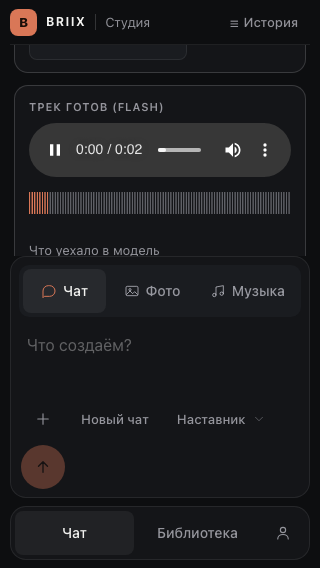
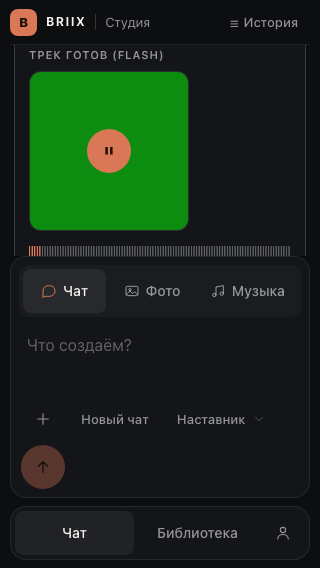
fix(restore): карточка трека после перезагрузки — единый рендер с fresh
- renderTrackCard: один путь построения для createMusic и feedRestore
- обложка = PLAY насовсем: клик до загрузки запускает fileBlob и сразу play,
  состояние loading на обложке; после загрузки — play/pause-тоггл
- волна-заглушка .waveform-ph (шимер) строится сразу, заменяется auto-attach
  волной после загрузки; ошибка загрузки — текст в заглушке, повтор кликом
- «▶ Слушать» в music-карточках ленты удалено (в Библиотеке осталось — не в скоупе)
- сюиты: клики переведены на обложку; новые ассерты: заглушка и PLAY до загрузки,
  audioRequests=0 до клика, playing после клика, seek после загрузки, media-load=0
- check-studio 49 PASS; скриншоты 390/320 обновлены (+ placeholder-состояние)
- отчёт: раздел «fix restore» в audits/task-studio-agent-b.md

Changed region(s): [[0.0625, 0.0898, 0.9062, 0.4489], [0.9375, 0.1197, 0.9688, 0.1496], [0.0312, 0.1197, 0.0625, 0.1496]]

diff --git a/studio/studio.js b/studio/studio.js
@@ -318,47 +318,31 @@
       } else if (d.t === 'music_draft') {
         renderMusicDraftCard(d, session);
       } else if (d.t === 'media') {
-        const body = card('assistant', d.who, '', session);
-        body.textContent = '';
-        const slot = document.createElement('div');
-        body.append(slot);
-        if (d.track) addMakeTrackAction(body.closest('.card'), d.track);
         if (d.kind === 'music') {
-          if (d.input) addMusicDetails(body, d.input);
-          addTrackMenu(body.closest('.card'), { job: d.job, input: d.input || {}, file: d.file, blob: null });
-        }
-        const owner = sessionProfile.nick;
-        const load = async () => {
-          slot.textContent = 'Загружаем файл…';
-          try {
-            const blob = await fileBlob(d.file, d.kind === 'music' ? 0 : 1);
-            if (!slot.isConnected || currentUser() !== owner) return;
-            slot.textContent = '';
-            if (d.kind === 'photo') {
-              const img = new Image(); img.alt = 'Результат'; img.src = feedObjectURL(blob); slot.append(img);
-            } else {
-              const audio = document.createElement('audio'); audio.controls = true; audio.controlsList = 'nodownload';
-              audio.preload = 'metadata'; audio.src = feedObjectURL(blob); slot.append(audio);
-              BriixWaveform.attach(audio, blob, slot);
-              tryPlay(audio, slot);
-              if (d.kind === 'music') {
-                makeCoverPlayable(body.closest('.card'), audio); // обложка = PLAY
-              } else {
-                addDownloadAction(body.closest('.card'), blob, 'briix-photo', '⬇ Скачать');
-              }
-            }
-          } catch (error) {
-            if (!slot.isConnected || currentUser() !== owner) return;
-            slot.textContent = 'Файл недоступен. ' + (error.message || '') + ' ';
-            const retry = document.createElement('button'); retry.type = 'button'; retry.className = 'action';
-            retry.textContent = 'Повторить'; retry.addEventListener('click', load); slot.append(retry);
-          }
-        };
-        if (d.kind === 'music') {
-          addTrackCover(body, d.job, d.cover);
-          const loadButton = document.createElement('button'); loadButton.type = 'button'; loadButton.className = 'action media-load';
-          loadButton.textContent = '▶ Слушать'; loadButton.addEventListener('click', load); slot.append(loadButton);
+          renderTrackCard(session, { who: d.who, job: d.job, cover: d.cover, input: d.input || {}, file: d.file,
+            loadBlob: () => fileBlob(d.file, 0) });
         } else {
+          const body = card('assistant', d.who, '', session);
+          body.textContent = '';
+          const slot = document.createElement('div');
+          body.append(slot);
+          if (d.track) addMakeTrackAction(body.closest('.card'), d.track);
+          const owner = sessionProfile.nick;
+          const load = async () => {
+            slot.textContent = 'Загружаем файл…';
+            try {
+              const blob = await fileBlob(d.file, 1);
+              if (!slot.isConnected || currentUser() !== owner) return;
+              slot.textContent = '';
+              const img = new Image(); img.alt = 'Результат'; img.src = feedObjectURL(blob); slot.append(img);
+              addDownloadAction(body.closest('.card'), blob, 'briix-photo', '⬇ Скачать');
+            } catch (error) {
+              if (!slot.isConnected || currentUser() !== owner) return;
+              slot.textContent = 'Файл недоступен. ' + (error.message || '') + ' ';
+              const retry = document.createElement('button'); retry.type = 'button'; retry.className = 'action';
+              retry.textContent = 'Повторить'; retry.addEventListener('click', load); slot.append(retry);
+            }
+          };
           slot.textContent = 'Изображение готово';
           const observer = new IntersectionObserver((records, obs) => {
             if (!slot.isConnected) { obs.disconnect(); return; }
@@ -577,20 +561,85 @@
   }
 
   // ---- карточка трека: обложка = PLAY, единое меню «⋯», transparency ----------
-  // Обложка запускает/останавливает воспроизведение; состояние playing видно на ней.
-  function makeCoverPlayable(cardEl, audio) {
-    const frame = cardEl?.querySelector('.track-cover');
+  // Обложка — единый рендер-путь для fresh и restore: если аудио ещё не загружено
+  // (restore после перезагрузки страницы), клик по обложке запускает загрузку и
+  // сразу play по готовности; иначе это обычный play/pause-тоггл.
+  function makeCoverPlayable(frame, state, ensureLoaded) {
     if (!frame || frame.dataset.playBound) return;
     frame.dataset.playBound = '1';
     frame.classList.add('playable');
     frame.setAttribute('role', 'button');
     frame.setAttribute('aria-label', 'Слушать трек');
     frame.tabIndex = 0;
-    const toggle = () => { if (audio.paused) audio.play().catch(() => {}); else audio.pause(); };
+    let started = false;
+    const toggle = () => {
+      if (!state.audio) {
+        if (started) return;
+        started = true;
+        frame.classList.add('loading');
+        ensureLoaded().then(audio => audio.play().catch(() => {}))
+          .catch(() => {})
+          .finally(() => { started = false; frame.classList.remove('loading'); });
+        return;
+      }
+      if (state.audio.paused) state.audio.play().catch(() => {}); else state.audio.pause();
+    };
     frame.addEventListener('click', toggle);
     frame.addEventListener('keydown', e => { if (e.key === 'Enter' || e.key === ' ') { e.preventDefault(); toggle(); } });
-    audio.addEventListener('play', () => { frame.classList.add('playing'); frame.setAttribute('aria-label', 'Пауза'); });
-    audio.addEventListener('pause', () => { frame.classList.remove('playing'); frame.setAttribute('aria-label', 'Слушать трек'); });
+  }
+
+  // Единый рендер трек-карточки (fresh и restore): обложка, заглушка волны
+  // (до загрузки файла), аудио-фолбэк, transparency, меню «⋯».
+  function renderTrackCard(session, { who, job, cover, input = {}, file, loadBlob }) {
+    const wrap = card('assistant', who, '', session);
+    wrap.textContent = '';
+    addTrackCover(wrap, job, cover);
+    const waveSlot = document.createElement('div');
+    waveSlot.className = 'waveform-track';
+    const placeholder = document.createElement('div');
+    placeholder.className = 'waveform-ph';
+    placeholder.setAttribute('aria-hidden', 'true');
+    waveSlot.append(placeholder);
+    wrap.append(waveSlot);
+    const audioSlot = document.createElement('div');
+    audioSlot.hidden = true;
+    wrap.append(audioSlot);
+    addMusicDetails(wrap, input);
+    const cardEl = wrap.closest('.card');
+    let cardBlob = null;
+    const ctx = { job, input, file, get blob() { return cardBlob; } };
+    addTrackMenu(cardEl, ctx);
+    const frame = cardEl.querySelector('.track-cover');
+    const state = { audio: null };
+    let pending = null;
+    const ensureLoaded = () => pending ||= (async () => {
+      try {
+        const blob = await loadBlob();
+        if (!frame.isConnected || currentUser() !== sessionProfile?.nick) throw new BusError('cancelled', 'Карточка недоступна.');
+        cardBlob = blob;
+        const audio = document.createElement('audio');
+        audio.controls = true;
+        audio.controlsList = 'nodownload'; // скачивание только через меню «⋯»: имя «Название - Исполнитель»
+        audio.preload = 'metadata';
+        audio.src = feedObjectURL(blob);
+        audioSlot.hidden = false;
+        audioSlot.append(audio);
+        placeholder.remove();
+        BriixWaveform.attach(audio, blob, waveSlot);
+        state.audio = audio;
+        audio.addEventListener('play', () => { frame.classList.add('playing'); frame.setAttribute('aria-label', 'Пауза'); });
+        audio.addEventListener('pause', () => { frame.classList.remove('playing'); frame.setAttribute('aria-label', 'Слушать трек'); });
+        return audio;
+      } catch (error) {
+        pending = null; // обложка остаётся кнопкой повтора
+        if (frame.isConnected && currentUser() === sessionProfile?.nick) {
+          placeholder.textContent = 'Файл недоступен. ' + (error.message || '') + ' Повтор — нажатием на обложку.';
+        }
+        throw error;
+      }
+    })();
+    makeCoverPlayable(frame, state, ensureLoaded);
+    return { cardEl, waveSlot, ensureLoaded };
   }
 
   // Имя файла трека: «Название - Исполнитель.ext» с сохранением юникода (кириллица
@@ -1367,20 +1416,14 @@
       wait.stop();
       watchStage.disconnect();
       stageBody.closest('.card').remove();
-      const audio = document.createElement('audio');
-      audio.controls = true;
-      audio.controlsList = 'nodownload'; // скачивание только через нашу кнопку: имя .m4a, обложка и текст внутри
       const blob = await fileBlob(result.result_url);
-      audio.src = feedObjectURL(blob);
-      const wrap = card('assistant', 'Трек готов (' + MODEL_LABELS[snapshot.quality] + ')', '', session);
-      wrap.textContent = '';
-      addTrackCover(wrap, id, result.cover_url);
-      audio.preload = 'metadata';
-      wrap.append(audio);
-      BriixWaveform.attach(audio, blob, wrap);
-      makeCoverPlayable(wrap.closest('.card'), audio); // обложка = PLAY
-      addMusicDetails(wrap, input);
-      addTrackMenu(wrap.closest('.card'), { job: id, input, file: result.result_url, blob });
+      // Единый рендер-путь с restore-карточкой: обложка = PLAY, волна, меню «⋯».
+      const trackCard = renderTrackCard(session, {
+        who: 'Трек готов (' + MODEL_LABELS[snapshot.quality] + ')',
+        job: id, cover: result.cover_url, input, file: result.result_url,
+        loadBlob: () => Promise.resolve(blob)
+      });
+      trackCard.ensureLoaded().then(audio => tryPlay(audio, trackCard.cardEl)).catch(() => {});
       feedPush({ t: 'media', who: 'Трек готов (' + MODEL_LABELS[snapshot.quality] + ')', kind: 'music', file: result.result_url, job: id, cover: result.cover_url || '', input }, session);
       libAdd({
         job: id, sessionId: session.id, kind: 'music', prompt: requestBase || '',

diff --git a/studio/studio.css b/studio/studio.css
@@ -533,6 +533,16 @@ button:disabled { cursor: not-allowed; opacity: .4; }
 .track-cover.playable:hover::after { background: var(--accent); color: var(--accent-ink); }
 .track-cover.playable:active::after { transform: translate(-50%, -50%) scale(.94); }
 .track-cover.playable.playing::after { content: '⏸'; padding-left: 0; }
+.track-cover.playable.loading::after { content: '…'; padding-left: 0; }
+
+/* Заглушка волны в restore-карточке до загрузки файла (шимер поверх токенов). */
+.waveform-track { margin-top: 8px; }
+.waveform-ph {
+  height: 36px; border-radius: 8px;
+  background: linear-gradient(110deg, var(--surface-2) 8%, var(--hover) 18%, var(--surface-2) 33%);
+  background-size: 200% 100%;
+  animation: shimmer 1.4s linear infinite;
+}
 
 /* Единое меню «⋯» карточки трека; на мобайле — bottom-sheet у нижнего края. */
 .menu-btn { min-width: 44px; justify-content: center; font-size: 16px; letter-spacing: 2px; }

diff --git a/audits/task-studio-agent-b.md b/audits/task-studio-agent-b.md
@@ -136,3 +136,29 @@
 
 Дизайн-док перечитан; правки; все доступные сюиты локально (NODE_PATH=/opt/homebrew/lib/node_modules);
 скриншоты; отчёт; PR в briix-studio — **не сливать** (интеграция координатором).
+
+## 8. fix restore (баг приёмки владельцем, 14.11 — PR fix/restore-track-card)
+
+**Баг:** после перезагрузки страницы (restore-путь ленты) карточка трека мертва: обложка не кликается,
+волны нет, «▶ Слушать» не активирует ничего. Корень: restore-рендер отличался от fresh — обложка не
+была PLAY-кнопкой до загрузки файла (клик по ней не запускал load), волна прикреплялась только после
+загрузки, а «Слушать»-кнопка не заменялась обложкой.
+
+**Фикс (единый рендер-пут: `renderTrackCard` для fresh и restore):**
+1. Клик по обложке ДО загрузки = запускает `loadBlob()` и по готовности сразу `play()`
+   (`makeCoverPlayable(frame, state, ensureLoaded)` с состоянием loading на обложке);
+   после загрузки обложка — обычный play/pause-тоггл (класс `playing`).
+2. Заглушка волны (`.waveform-ph`, шимер по токенам) строится сразу при построении карточки;
+   после загрузки заменяется настоящей волной (auto-attach + seek). Ошибка загрузки: текст в заглушке,
+   повтор — нажатием на обложку (`pending` сбрасывается).
+3. `renderTrackCard(session, { who, job, cover, input, file, loadBlob })` — одна функция для fresh
+   (createMusic: `loadBlob = () => Promise.resolve(blob)` + `tryPlay`) и restore (feedRestore:
+   ленивый `fileBlob(d.file, 0)`); «▶ Слушать» в music-карточках ленты удалено (в Библиотеке —
+   осталось, не в скоупе бага).
+4. Ассерты в check-studio (блок «track card» + «restored history»): restore → волна-заглушка и
+   PLAY-обложка сразу, `audioRequests === 0` до клика, клик по обложке грузит и играет (класс
+   `playing`), seek по волне после загрузки, `#feed .media-load` = 0. Все клики в сюитах переведены
+   с «Слушать» на обложку (100-треков, приоритет, две сессии, bottom-sheet).
+5. Сюиты: check-studio **49 PASS**; waveform/assembly/producer/session-store/studio-storage — PASS;
+   check-wait-phrases — прежняя преждевременная поломка на main (п.3 отчёта). Скриншоты 390/320
+   обновлены (+ `track-card-placeholder.png` — состояние до загрузки).
